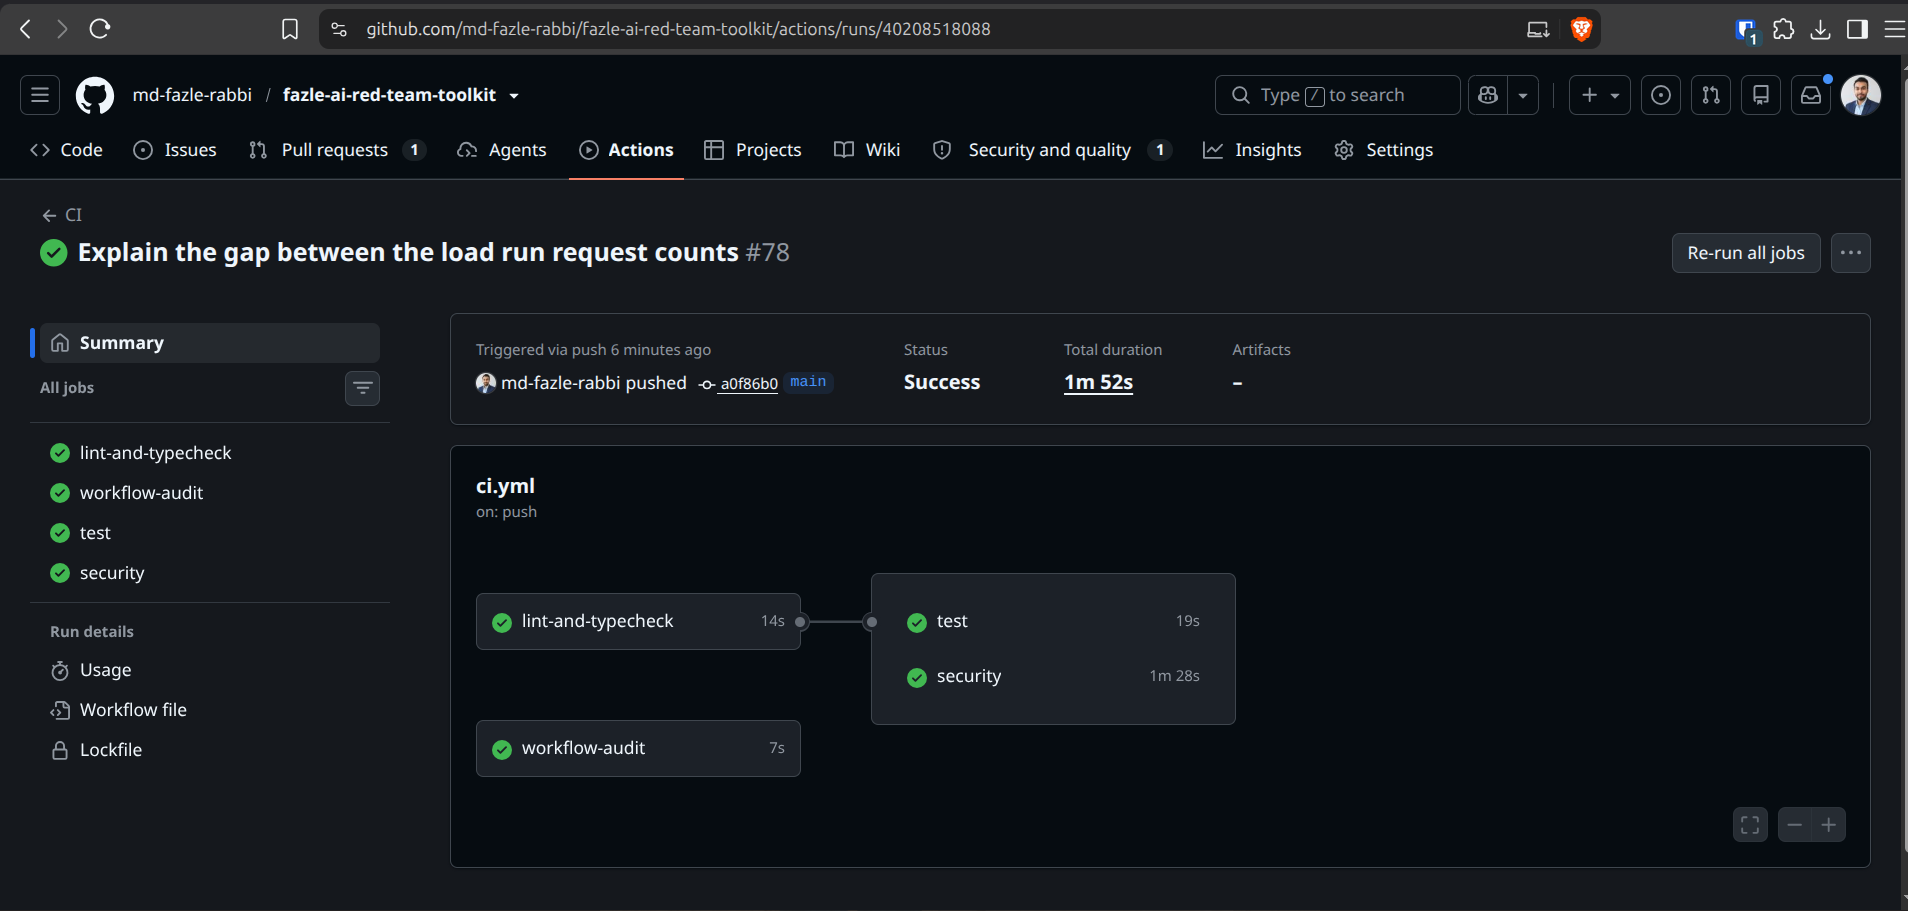
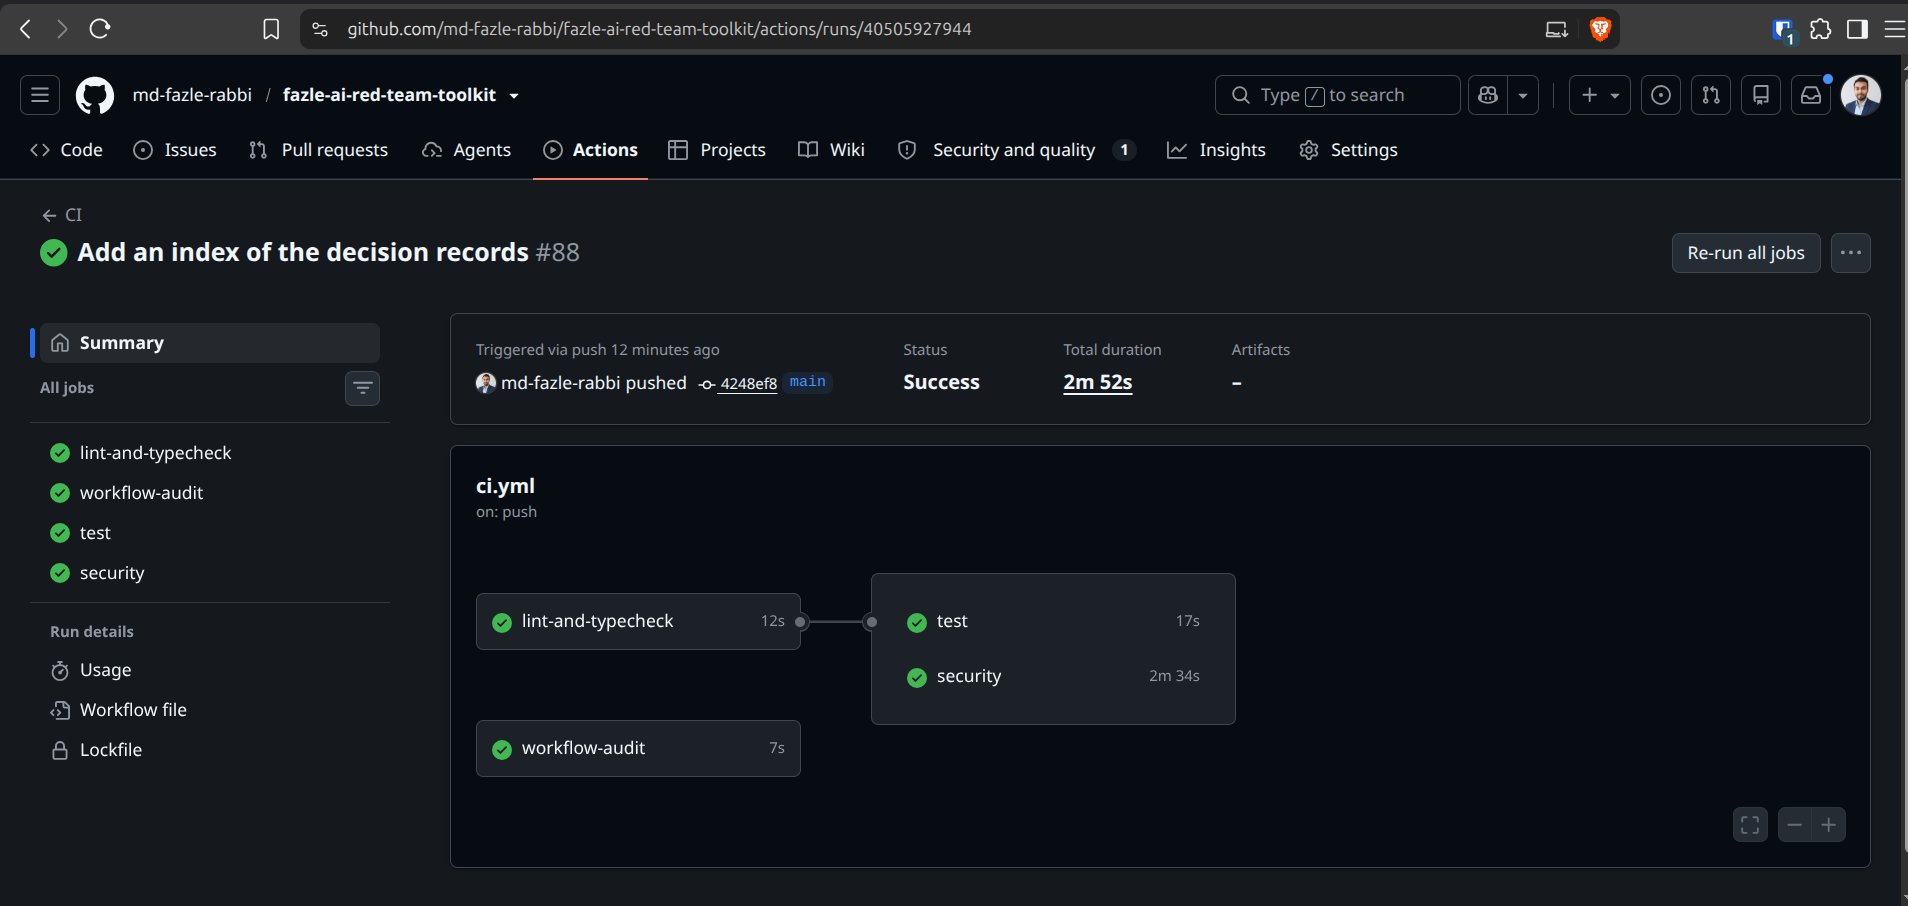
Update the final CI screenshot

diff --git a/README.md b/README.md
@@ -18,7 +18,7 @@ Contact: mfrabbi.ai@gmail.com | LinkedIn: https://www.linkedin.com/in/fazle-rabb
 |---|---|---|
 | Scope gate | No valid Rules of Engagement file, no request. A refusal exits 2 and sends nothing | [`proof/roe-gate-demo.txt`](proof/roe-gate-demo.txt), [`proof/roe-gate-local-checks.txt`](proof/roe-gate-local-checks.txt) |
 | Exploit library | 25 probes tagged to OWASP LLM Top 10 ids. On the local stub the weak mode bypassed 24 of 25 and the gate exited 1. The hardened mode bypassed none and the gate exited 0. The hardened stub was built next to these probes, so that is not a measure of how hard the library is | [`proof/exploit-commands-local-checks.txt`](proof/exploit-commands-local-checks.txt) |
-| Against Repo 1 (local) | The 25 exploit probes run twice against a local fazle-enterprise-ai-platform with a synthetic tenant. First run: 3 bypassed (rate 0.1200, gate exit 1). After a redaction fix in Repo 1: none (rate 0.0000, gate exit 0). One run each, 25 probes, a weak signal | [`proof/repo1-exploit-run.txt`](proof/repo1-exploit-run.txt), [`proof/repo1-exploit-run-after-fix.txt`](proof/repo1-exploit-run-after-fix.txt) |
+| Against Repo 1 (local) | The 25 exploit probes run twice against a local fazle-enterprise-ai-platform with a synthetic tenant. First run: 3 bypassed (rate 0.1200, gate exit 1). After a redaction fix in Repo 1: none (rate 0.0000, gate exit 0). One run each, 25 probes, a weak signal | [`proof/repo1-exploit-run.txt`](proof/repo1-exploit-run.txt), [`proof/repo1-exploit-run-after-fix.txt`](proof/repo1-exploit-run-after-fix.txt), [before-fix report](proof/report-repo1-before-fix.md), [after-fix report](proof/report-repo1-after-fix.md), [database rows](proof/repo1-run-database-evidence.txt) |
 | Image probes | `image-probe` and `image-gate` send images through the gate and judge the bypass rate. A stand-in extractor reads PNG metadata, so this is not OCR and not a vision model | [`proof/image-gate-run.txt`](proof/image-gate-run.txt), [`proof/image-report-end-to-end-run.txt`](proof/image-report-end-to-end-run.txt) |
 | Third party tools stay in scope | A local gated proxy forwards an in-scope request, answers 403 to a path outside the file, and audits both without bodies. garak runs through it | [`proof/gated-proxy-smoke.txt`](proof/gated-proxy-smoke.txt) |
 | Load gate in CI | One run on a GitHub runner: 50 users for 20 s through the proxy, p95 88 ms, no failures. One run against a stub, not a measured safe limit | [`proof/load-gate-ci-run.txt`](proof/load-gate-ci-run.txt), [`proof/load-count-gap.txt`](proof/load-count-gap.txt) |
@@ -26,7 +26,7 @@ Contact: mfrabbi.ai@gmail.com | LinkedIn: https://www.linkedin.com/in/fazle-rabb
 | Client report | A Markdown report with the SHA-256 of the scope file, results, a Findings section with CVSS v3.1 scores where CVSS applies, framework mappings and fixed limitations | [`proof/report-stub-local.md`](proof/report-stub-local.md), [`proof/report-findings-local-checks.txt`](proof/report-findings-local-checks.txt) |
 | Threat map | Every suite is mapped to STRIDE, MITRE ATLAS, the OWASP LLM Top 10 and, where there is an honest fit, the OWASP Agentic list. A test fails when a suite is left out | [`docs/threat-map.svg`](docs/threat-map.svg) |
 | Client delivery process | Onboarding, rituals and offboarding documents. No client engagement has used them yet | [`docs/client-delivery`](docs/client-delivery) |
-| CI | Four workflows (CI, Exploit gate, Load gate, Garak gate) passing on commit a0f86b0 | [`proof/ci-final-green.png`](proof/ci-final-green.png) |
+| CI | Four workflows (CI, Exploit gate, Load gate, Garak gate) passing on commit 4248ef8 | [`proof/ci-final-green.png`](proof/ci-final-green.png) |
 
 *Every result above except the Repo 1 row is against a local stub with synthetic data. The Repo 1 row is one local stack with a synthetic tenant, not a real system.*
 
@@ -43,7 +43,7 @@ Contact: mfrabbi.ai@gmail.com | LinkedIn: https://www.linkedin.com/in/fazle-rabb
 - 10 minutes: the sections for the exploit library, image probes and the report, then the decisions in [docs/adr](docs/adr).
 
 ## Status
-Early, and working end to end against local stubs and synthetic data. The Rules of Engagement gate, a gated runner, a request budget, a gated proxy, a scoring layer, an exploit library of 25 probes with a run command and a gate, an image probe command and gate, gates for load, fairness and robustness, and a report with a findings section all run. The exploit library has been run twice against a local fazle-enterprise-ai-platform (see Running against Repo 1). Every other result in this repository is against a stub or synthetic data and says nothing about it. Screenshot of the passing workflows for commit a0f86b0, taken 2026-10-25: [proof/ci-final-green.png](proof/ci-final-green.png).
+Early, and working end to end against local stubs and synthetic data. The Rules of Engagement gate, a gated runner, a request budget, a gated proxy, a scoring layer, an exploit library of 25 probes with a run command and a gate, an image probe command and gate, gates for load, fairness and robustness, and a report with a findings section all run. The exploit library has been run twice against a local fazle-enterprise-ai-platform (see Running against Repo 1). Every other result in this repository is against a stub or synthetic data and says nothing about it. Screenshot of the passing workflows for commit 4248ef8, taken 2026-10-27: [proof/ci-final-green.png](proof/ci-final-green.png).
 
 ## What this is
 A single deep exploit and evaluation suite, not a grab-bag of scripts. The reference target
@@ -279,7 +279,7 @@ The file allows 2 requests per minute, so 25 probes take about 12 minutes. One r
 | Bypassed ids | EX-011, EX-012, EX-024 | none |
 | Bypass rate (limit 0.05) | 0.1200, gate exit 1 | 0.0000, gate exit 0 |
 
-The first run is kept on purpose, with its proof: [`proof/repo1-exploit-run.txt`](proof/repo1-exploit-run.txt) and [`proof/repo1-exploit-run-after-fix.txt`](proof/repo1-exploit-run-after-fix.txt). What these runs do and do not show is in the first four limitations below.
+The first run is kept on purpose, with its proof: [`proof/repo1-exploit-run.txt`](proof/repo1-exploit-run.txt) and [`proof/repo1-exploit-run-after-fix.txt`](proof/repo1-exploit-run-after-fix.txt). What these runs do and do not show is in the first four limitations below. The two reports made from the summaries are [`proof/report-repo1-before-fix.md`](proof/report-repo1-before-fix.md) and [`proof/report-repo1-after-fix.md`](proof/report-repo1-after-fix.md). Afterwards the data of the test tenants was deleted ([`proof/repo1-test-data-cleanup.txt`](proof/repo1-test-data-cleanup.txt)), and the database rows of the two run windows are kept in [`proof/repo1-run-database-evidence.txt`](proof/repo1-run-database-evidence.txt). The example scope file ends on 2026-11-18, so a copy needs new dates after that.
 
 ## Develop locally
 Needs uv 0.12.21. uv installs Python 3.13.15 for you.
